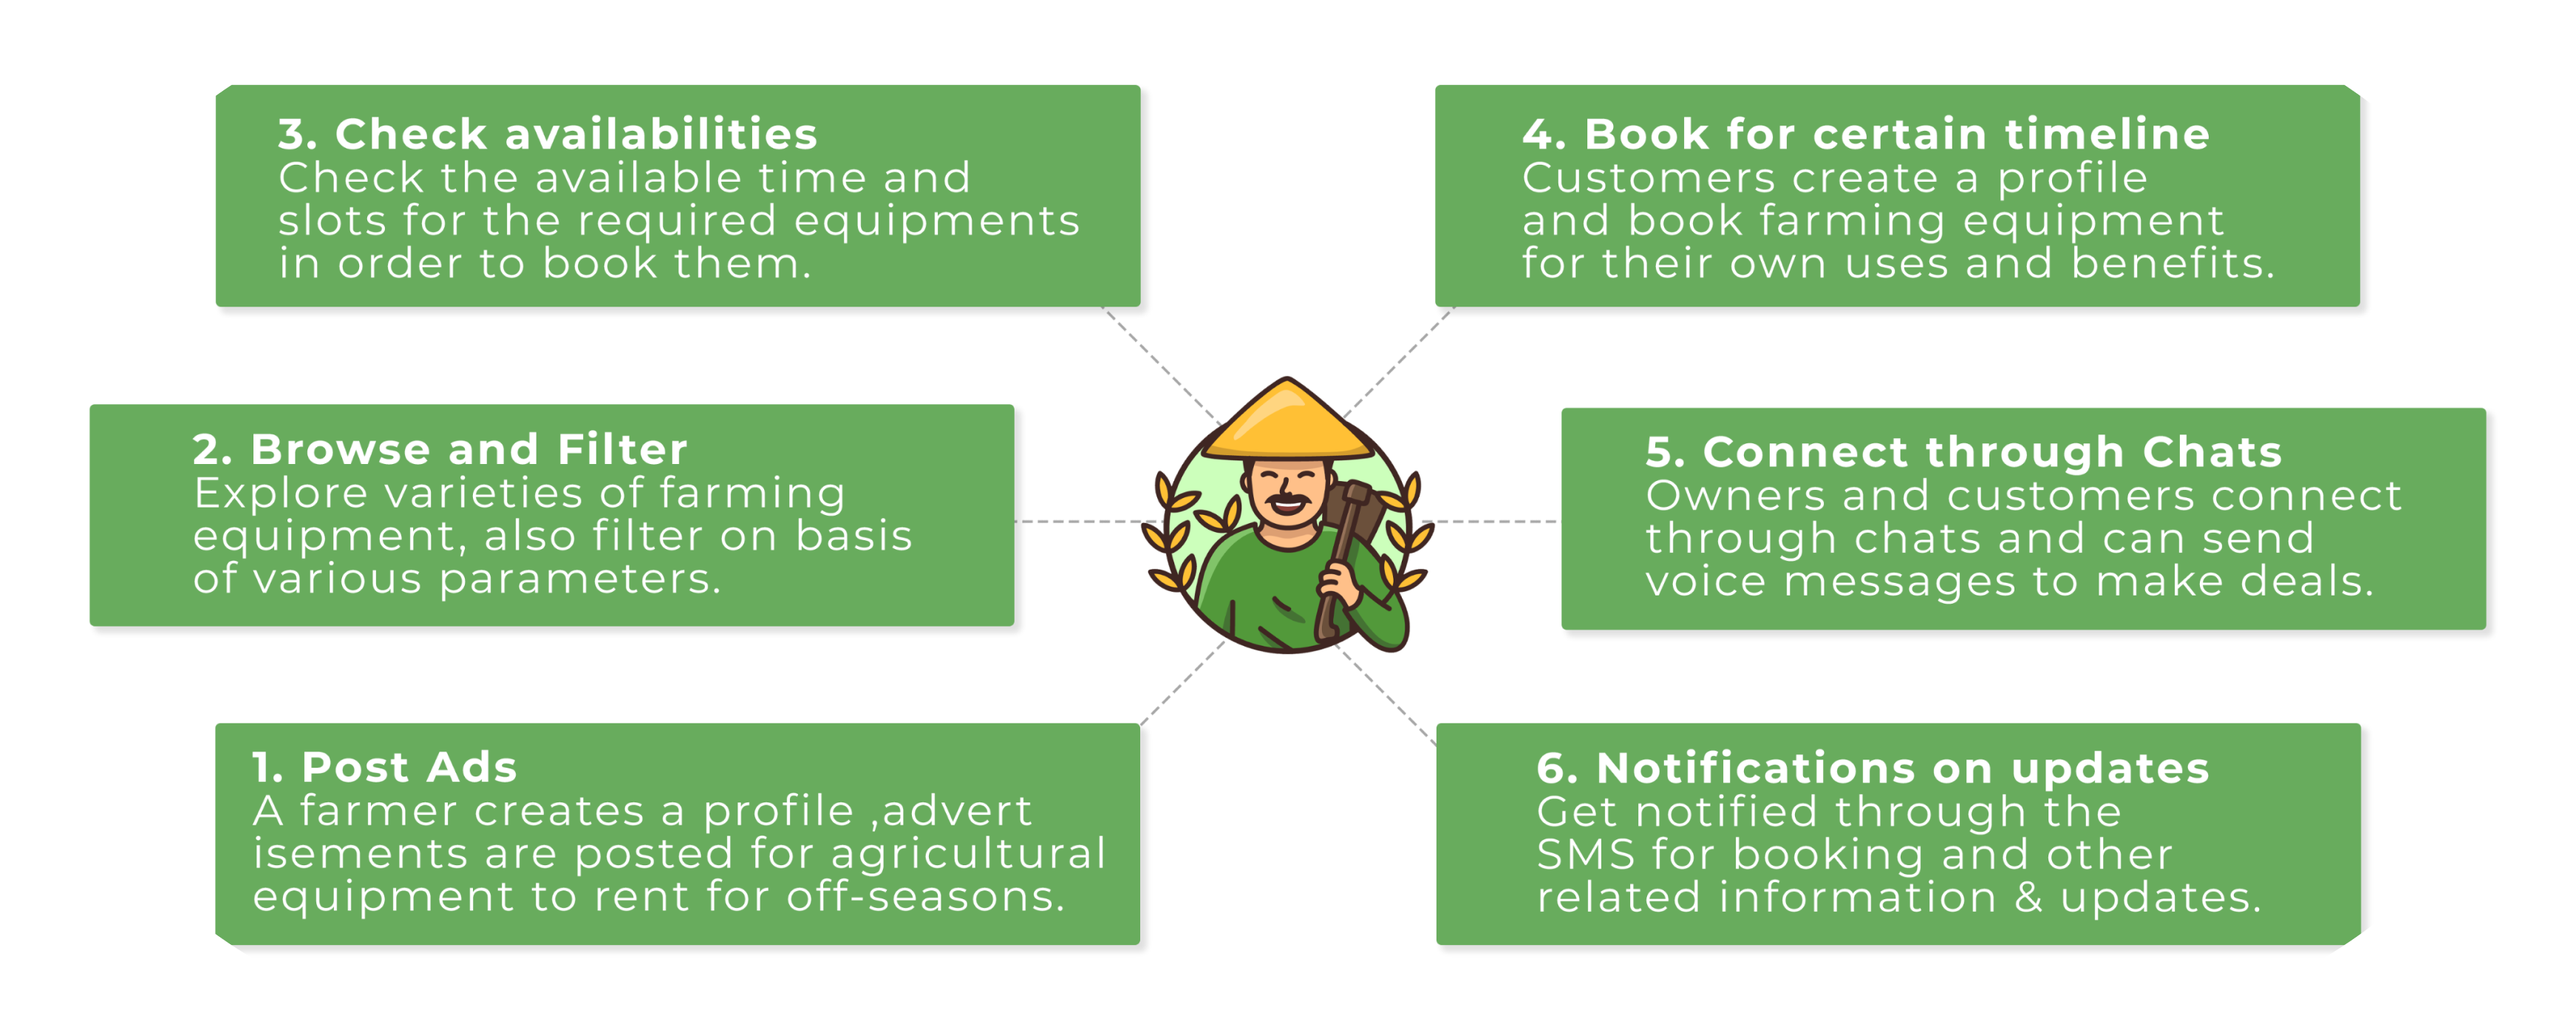
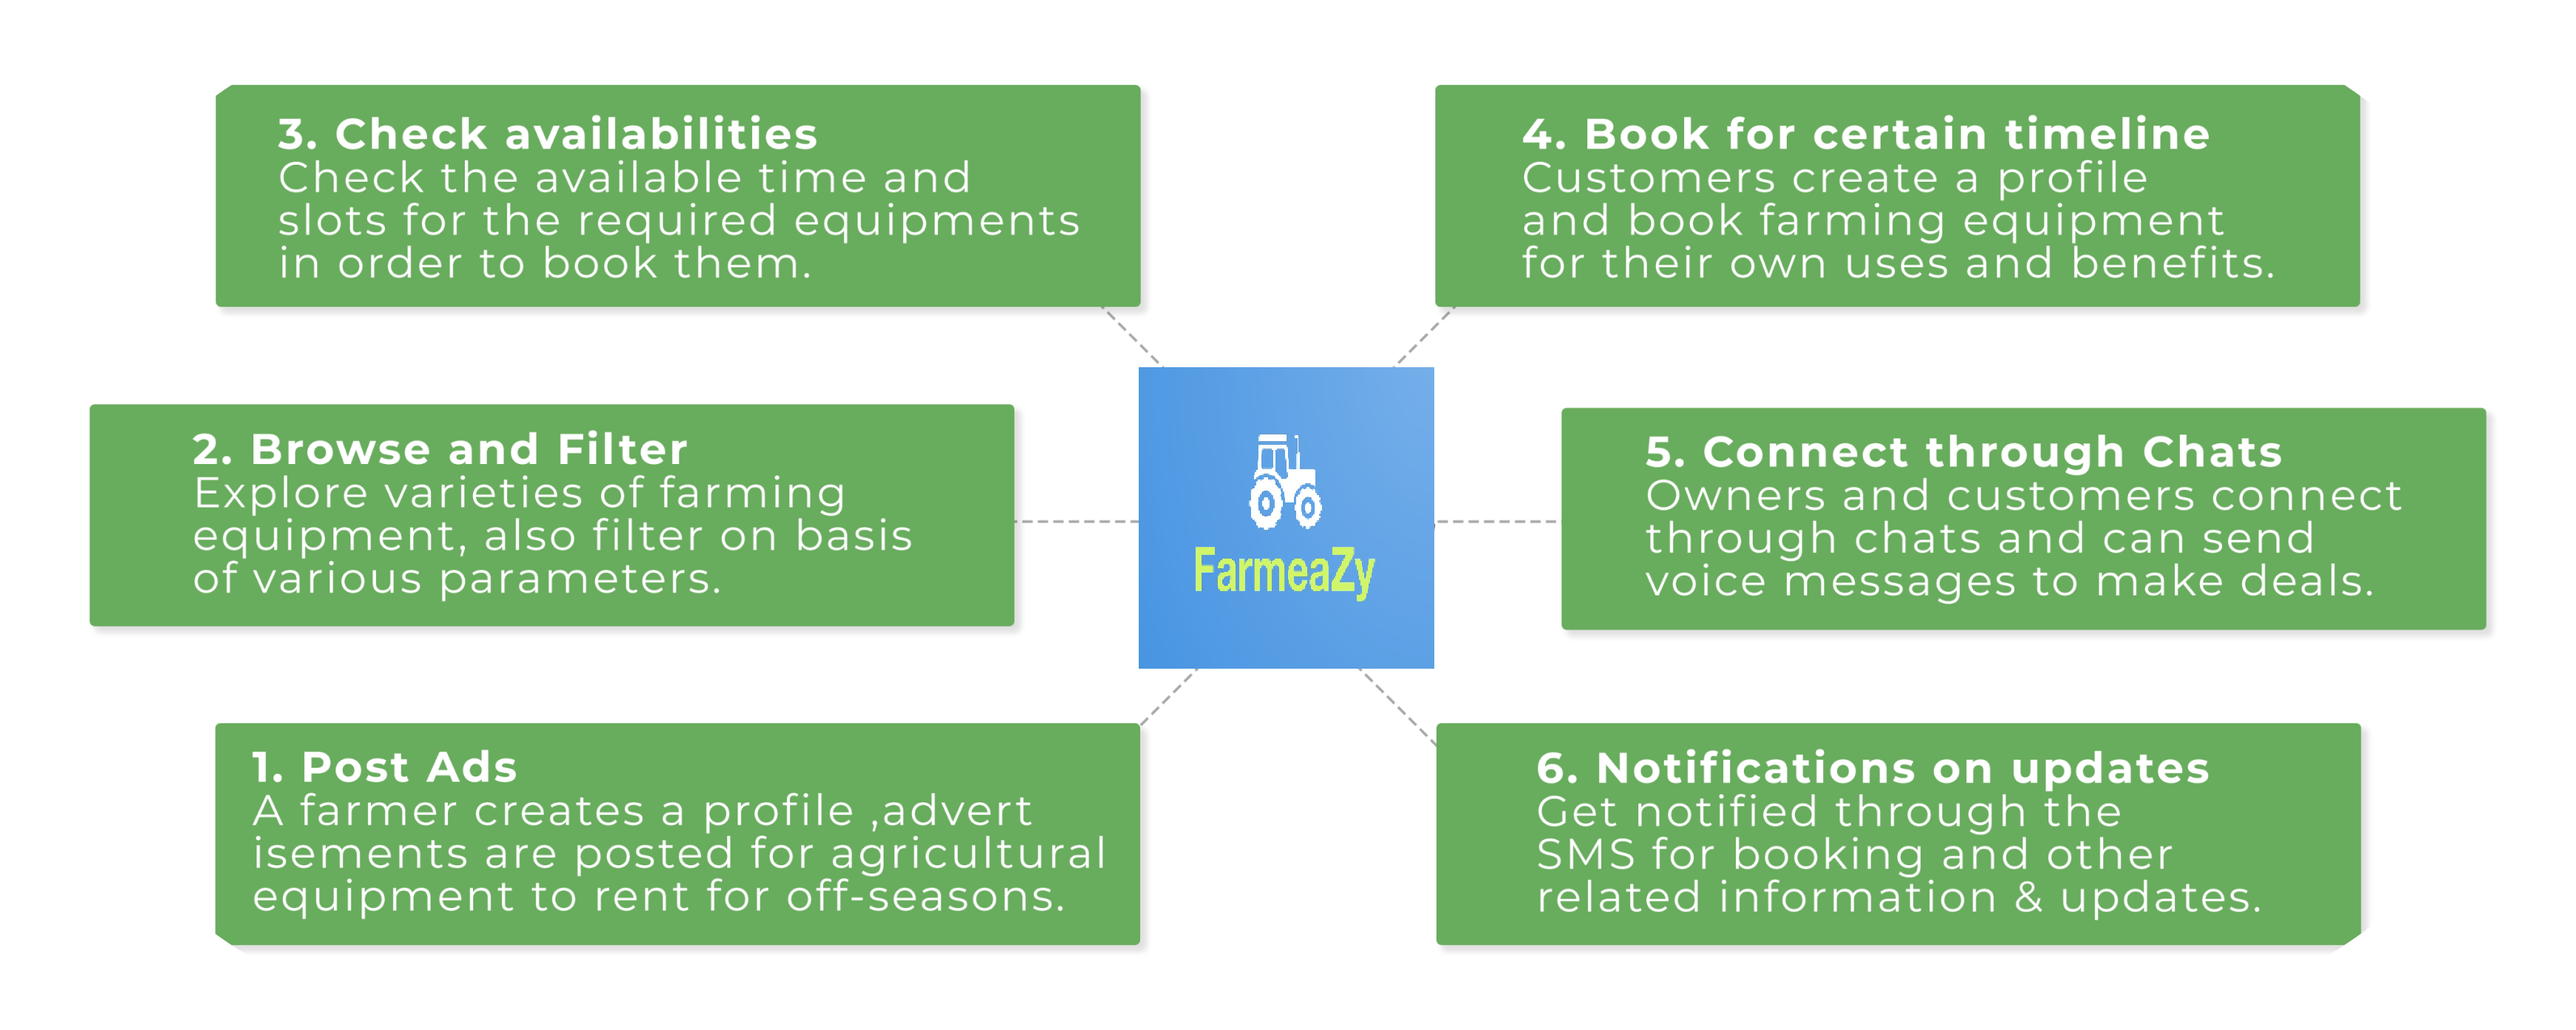
Manav

Changed region(s): [[0.4337, 0.3393, 0.5577, 0.6478]]

diff --git a/src/pages/FAQ.js b/src/pages/FAQ.js
@@ -26,8 +26,7 @@ const FAQ = () => {
                   </summary>
 
                   <span className="text-justify">
-                    You can sell your Farm Equipment by listing it on Krishi
-                    Sadhan website or Krishi Sadhan mobile applications.
+                    You can sell your Farm Equipment by listing it on FarmeaZy website.
                   </span>
                 </details>
                 <details class="mb-4">
@@ -36,7 +35,7 @@ const FAQ = () => {
                   </summary>
 
                   <span className="text-justify">
-                    Listing on Krishi Sadhan is quite easy. Just click on the
+                    Listing on FarmeaZy is quite easy. Just click on the
                     button LIST YOUR EQUIPMENT on the top right corner of the
                     website. Choose equipment type and location and click “List
                     Now”. Fill in the details of the equipment and click on the
@@ -50,7 +49,7 @@ const FAQ = () => {
 
                   <span className="text-justify">
                     You can sell your new or used tractor by listing it on
-                    Krishi Sadhan website or mobile applications. Don’t forget
+                    FarmeaZy website . Don’t forget
                     to mark it as new or used while creating equipment listing.
                   </span>
                 </details>
@@ -63,17 +62,17 @@ const FAQ = () => {
 
                   <span class="px-4 py-2 text-justify">
                     Yes there is an option to buy equipment as well. Some
-                    providers are open to selling equipment on Krishi Sadhan
+                    providers are open to selling equipment on FarmeaZy
                     with a fair deal.
                   </span>
                 </details>
                 <details class="mb-4">
                   <summary class="font-semibold  bg-gray-200 rounded-md py-2 px-4">
-                    I don't have a website, Can I still sell on Krishi Sadhan?
+                    I don't have a website, Can I still sell on FarmeaZy?
                   </summary>
 
                   <span class="px-4 py-2 text-justify">
-                    You don't need a website to start selling on Krishi Sadhan.
+                    You don't need a website to start selling on FarmeaZy.
                     Once you complete registration, you will have access to your
                     account where you can manage your equipment listing.
                   </span>

diff --git a/src/pages/cancellationPage/CancellationPolicy.jsx b/src/pages/cancellationPage/CancellationPolicy.jsx
@@ -15,7 +15,7 @@ const CancellationPolicy = () => {
     <div className="max-w-3xl flex flex-col mx-auto justify-center">
       <div className="my-10">
         <h1 className="text-4xl py-8 font-semibold text-gray-600">Cancellation Policies</h1>
-        <p className="text-md font-semibold leading-7 tracking-wide text-gray-800">Farmease allows renters to choose among three standardized cancellation policies (Flexible, Moderate, and Strict) that we will enforce to protect both guest and rent alike. The Super Strict cancellation policies apply to special circumstances and are by invitation only. The Long Term cancellation policy applies to all reservations of 28 nights or more. Each listing and reservation on our site will clearly state the cancellation policy. Guests may cancel and review any penalties by viewing their travel plans and then clicking ‘Cancel’ on the appropriate reservation. A renter will be able to see the number of reservations a guest has canceled over the previous 12 months when the guest submits a request to book.</p>
+        <p className="text-md font-semibold leading-7 tracking-wide text-gray-800">FarmeaZy allows renters to choose among three standardized cancellation policies (Flexible, Moderate, and Strict) that we will enforce to protect both guest and rent alike. The Super Strict cancellation policies apply to special circumstances and are by invitation only. The Long Term cancellation policy applies to all reservations of 28 nights or more. Each listing and reservation on our site will clearly state the cancellation policy. Guests may cancel and review any penalties by viewing their travel plans and then clicking ‘Cancel’ on the appropriate reservation. A renter will be able to see the number of reservations a guest has canceled over the previous 12 months when the guest submits a request to book.</p>
       </div>
 
       {/* <div className='max-w-4xl mx-auto'>

diff --git a/src/components/footer/Footer.jsx b/src/components/footer/Footer.jsx
@@ -20,7 +20,7 @@ const Footer = () => {
             <img src={logo} className="footerLogo" alt="" />
             <div className="ml-4">
               <h3 className="text-2xl text-white font-bold mt-4">
-                Krishi <br /> Sadhan
+                FarmeaZy <br />
               </h3>
               <p className="text-md font-normal text-white mt-2">
                 Kisaan upkaran ka ek Matra Sadhan.
@@ -80,28 +80,12 @@ const Footer = () => {
           </p>
         </div>
         <div className="flex-1 px-16 border-r-2 border-black-600">
-          <h1 className="text-xl ml-6 text-white font-bold w-2/3">
-            Give us a follow on social media
-          </h1>
+         
           <div className="flex my-5 justify-left">
-            <img
-              className="socialIcons mx-3 ml-6 cursor-pointer"
-              src={Vector}
-              alt=""
-            />
-            <img
-              className="socialIcons mx-3 ml-6 cursor-pointer"
-              src={Vector1}
-              alt=""
-            />
-            <img
-              className="socialIcons mx-3 ml-6 cursor-pointer"
-              src={Vector2}
-              alt=""
-            />
+            
           </div>
           <p className="text-lg ml-6 text-white">
-            Made by : <strong>Team Gryffindor</strong>
+            Made by : <strong>Team Console Crashers</strong>
           </p>
         </div>
         <div className="flex-1 flex mr-6">

diff --git a/src/pages/bookingRequest/BookingRequest.jsx b/src/pages/bookingRequest/BookingRequest.jsx
@@ -36,7 +36,7 @@ const BookingRequest = () => {
     //             "Content-Type": "application/json",
     //             Authorization: `Bearer ${Cookies.get('access-token')}`
     //         };
-    //         const {data} =  await axios.get(`https://krishi-sadhan-app.herokuapp.com/api/booking/detail/${params.id}` , { headers });
+    //         const {data} =  await axios.get(`https://localhost:8000/api/booking/update/${id}//api/booking/detail/${params.id}` , { headers });
     //         console.log(data);
     //         setOutput(data);
     //     }
@@ -51,7 +51,7 @@ const BookingRequest = () => {
             "Content-Type": "application/json",
             Authorization: `Bearer ${Cookies.get('access-token')}`
         };
-        await axios.patch(`https://krishi-sadhan-app.herokuapp.com/api/booking/update/${id}/` , { status }, { headers });
+        await axios.patch(`http://localhost:8000/api/booking/update/${id}/` , { status }, { headers });
         alert('Booking has been confirmed');
     }
     

diff --git a/src/pages/ContactUs/ContactUs.jsx b/src/pages/ContactUs/ContactUs.jsx
@@ -32,7 +32,7 @@ const ContactUs = () => {
                     <h1 className='text-3xl pt-6 text-gray-900 font-bold opacity-[0.9]'>Contact Us</h1>
                     <p className='mt-12 text-gray-800 text-lg font-semibold'>Head Office</p>
                     <p className='mt-3 text-gray-500 text-md font-semibold'>JSSATE, Sector 62, Block C, Noida</p>
-                    <p className='mt-3 text-gray-500 text-md font-semibold'><i className="text-green-400 fa-solid fa-envelope"></i> Email : <a href="" className='text-green-700 font-semibold'>krishisadhan7@gmail.com</a></p>
+                    <p className='mt-3 text-gray-500 text-md font-semibold'><i className="text-green-400 fa-solid fa-envelope"></i> Email : <a href="" className='text-green-700 font-semibold'>FarmeaZy@gmail.com</a></p>
                 </div>
 
                 <div className='flex-1'>

diff --git a/src/pages/PartnerDispute.js b/src/pages/PartnerDispute.js
@@ -100,7 +100,7 @@ const PartnerDispute = () => {
               value={description}
               onChange={(e) => setDescription(e.target.value)}
               placeholder="Enter your message ..."
-              className="shadow-inner border-none w-100 rounded-2xl placeholder:font-semibold placeholder:text-gray-400 placeholder:text-md h-10 input-style mb-3 px-3 h-32 "
+              className="shadow-inner border-none w-100 rounded-2xl placeholder:font-semibold placeholder:text-gray-400 placeholder:text-md input-style mb-3 px-3 h-32 "
             />
             <p className="text-center">{message}</p>
             <button

diff --git a/src/components/cancellationForm/index.js b/src/components/cancellationForm/index.js
@@ -69,7 +69,7 @@ const CancellationForm = () => {
               value={description}
               onChange={(e) => setDescription(e.target.value)}
               placeholder="Enter your message ..."
-              className="shadow-inner border-none w-100 rounded-2xl placeholder:font-semibold placeholder:text-gray-400 placeholder:text-md h-10 input-style mb-3 p-3 h-32 "
+              className="shadow-inner border-none w-100 rounded-2xl placeholder:font-semibold placeholder:text-gray-400 placeholder:text-md input-style mb-3 p-3 h-32 "
             />
             <p className="text-center">{message}</p>
             <button

diff --git a/src/pages/EquipmentReport.js b/src/pages/EquipmentReport.js
@@ -84,7 +84,7 @@ const EquipmentReport = () => {
               value={description}
               onChange={(e) => setDescription(e.target.value)}
               placeholder="Enter your message ..."
-              className="shadow-inner border-none w-100 rounded-2xl placeholder:font-semibold placeholder:text-gray-400 placeholder:text-md h-10 input-style mb-3 p-3 h-32 "
+              className="shadow-inner border-none w-100 rounded-2xl placeholder:font-semibold placeholder:text-gray-400 placeholder:text-md input-style mb-3 p-3 h-32 "
             />
             <p
               className={`text-center my-4 ${

diff --git a/src/pages/chat/Chat.jsx b/src/pages/chat/Chat.jsx
@@ -36,7 +36,7 @@ const Chat = () => {
         <input
           type="text"
           placeholder="Placeholder"
-          class="px-3 py-3 placeholder-blueGray-300 text-blueGray-600 relative bg-white bg-white rounded text-sm border-0 shadow outline-none focus:outline-none focus:ring w-full"
+          class="px-3 py-3 placeholder-blueGray-300 text-blueGray-600 relative bg-white rounded text-sm border-0 shadow outline-none focus:outline-none focus:ring w-full"
           value={message}
           onChange={(e) => setMessage(e.target.value)}
         />

diff --git a/src/api/bookingAPI.js b/src/api/bookingAPI.js
@@ -87,7 +87,7 @@ export const BookingUpdate = async (status, id) => {
           "Content-Type": "application/json",
           Authorization: `"Bearer ${Cookies.get('access-token')}`
       };
-      return await axios.patch(`https://krishi-sadhan-app.herokuapp.com/api/booking/update/${id}/` , { status }, { headers });
+      return await axios.patch(`https://localhost:8000/api/booking/update/${id}/` , { status }, { headers });
   } catch(error) {
       console.log('Error while calling getBookingDetail API', error);
   }

diff --git a/src/components/expandText/index.js b/src/components/expandText/index.js
@@ -42,7 +42,7 @@ const ExpandDropdown = ({ heading, content }) => {
             onClick={() => setOpen(false)}
           >
             <span className="text-indigo font-thin text-xl">{content}</span>
-            <div className="rounded-full border border border-indigo w-7 h-7 flex items-center justify-center bg-indigo">
+            <div className="rounded-full  border-indigo w-7 h-7 flex items-center justify-center bg-indigo">
               <svg
                 ariaHidden="true"
                 data-reactid="281"

diff --git a/src/components/homeComponent/services/Services.jsx b/src/components/homeComponent/services/Services.jsx
@@ -8,7 +8,7 @@ const Services = () => {
       <div className="flex justify-center flex-col p-9">
         <h1 className="text-4xl mt-2 font-bold m-auto">Our Services</h1>
         <p className="mt-3 text-lg font-semibold m-auto ">
-          Following are the services that Krishi Sadhan market provides for
+          Following are the services that FarmeaZy market provides for
           Farmers:
         </p>
         <img src={services4} className="serviceImg" alt="" />
